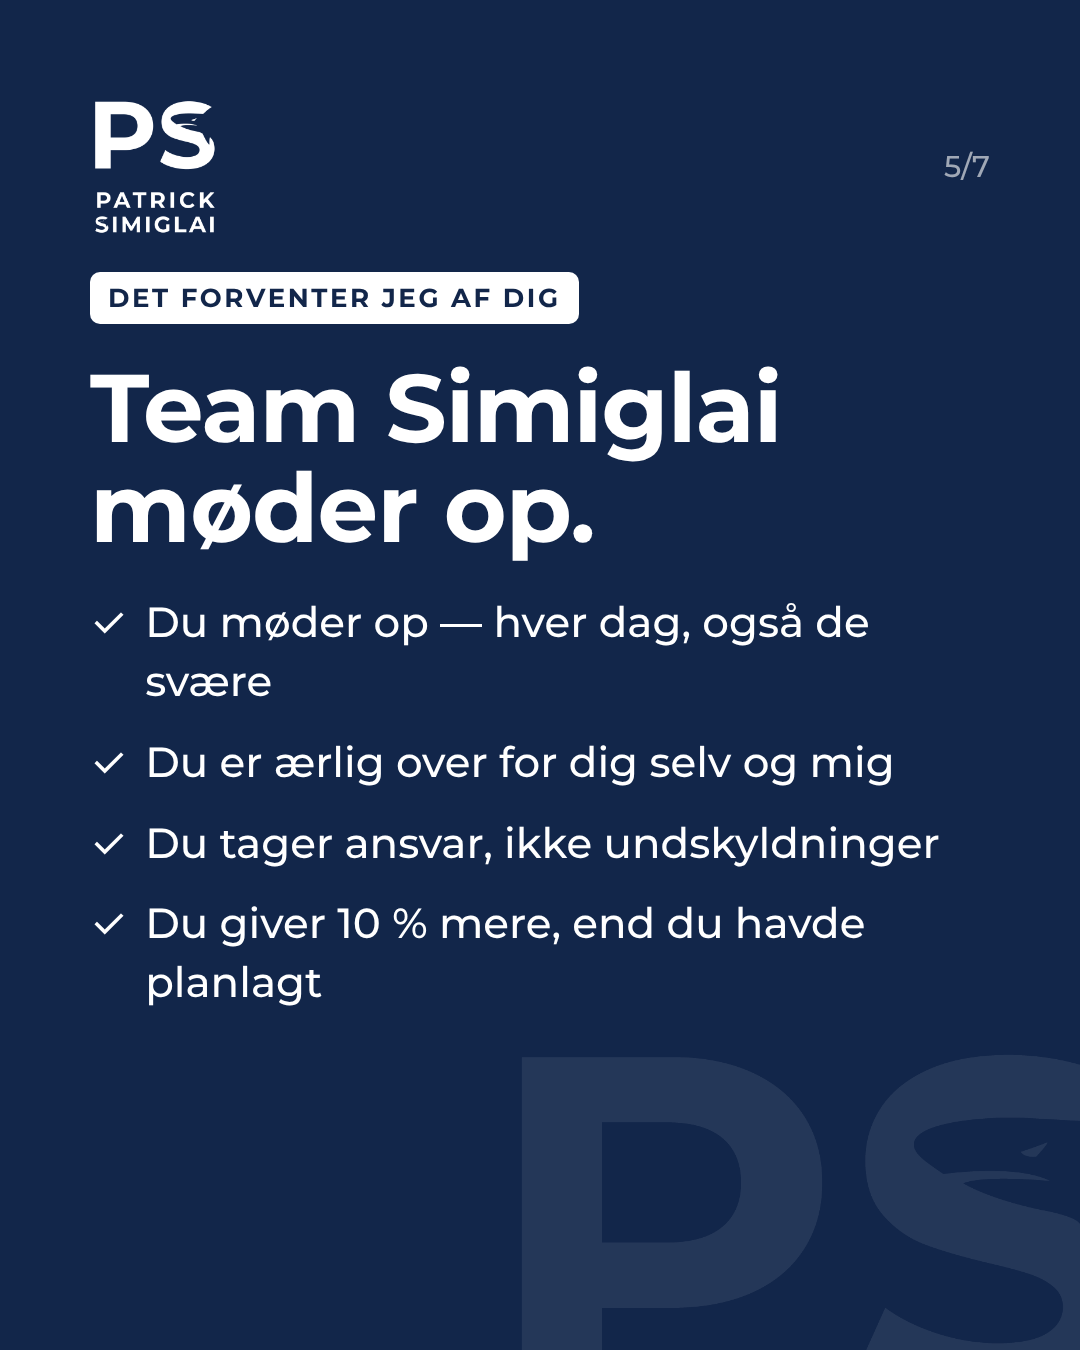
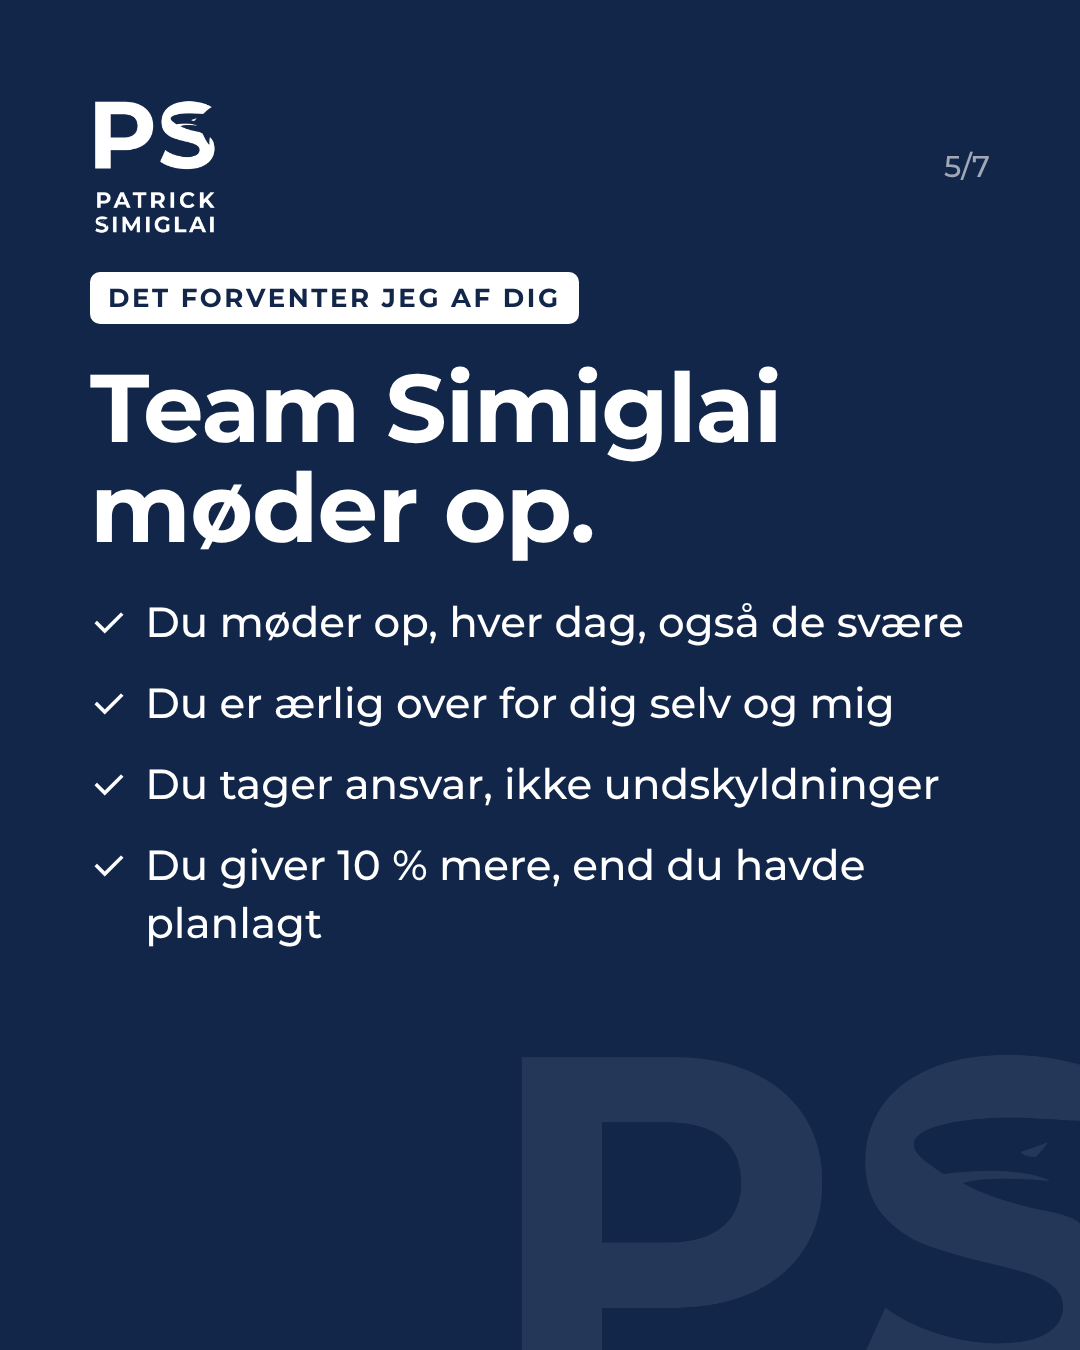
Launch slides: commas instead of dashes (Danish punctuation)
Claude-Session: https://claude.ai/code/session_01MtznJiQsn6TfRTKYdcmM83

Changed region(s): [[0.0917, 0.4356, 0.8861, 0.7467]]

diff --git a/marketing/launch-content.md b/marketing/launch-content.md
@@ -38,7 +38,7 @@ Derfor har jeg bygget min egen coaching-app. Den giver dig et system, der får d
 🌙 Aftenevaluering: sejre, læring og en karakter til dagen
 📅 Hver søndag: ugens evaluering
 
-Det kan du forvente af mig: Jeg ser dine check-ins, jeg følger op, når du falder fra, og jeg fejrer dine sejre.
+Det kan du forvente af mig: Jeg ser dine check-ins, jeg følger op, når du falder fra, og jeg fejrer dine sejre, store og små.
 Det forventer jeg af dig: At du møder op. Hver dag.
 
 4 niveauer — fra 349 kr./md. til 12 måneder én-til-én med mig.
